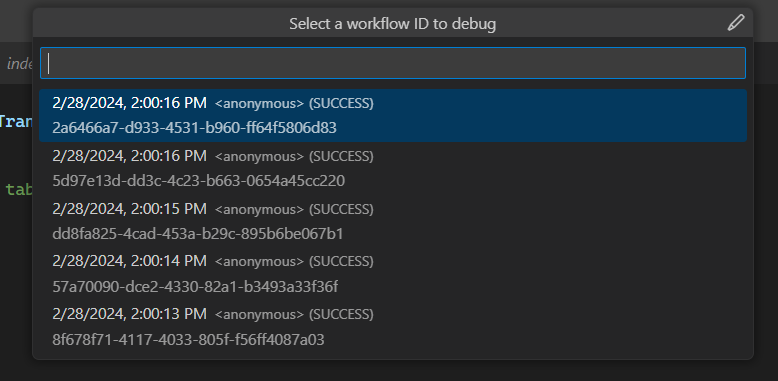
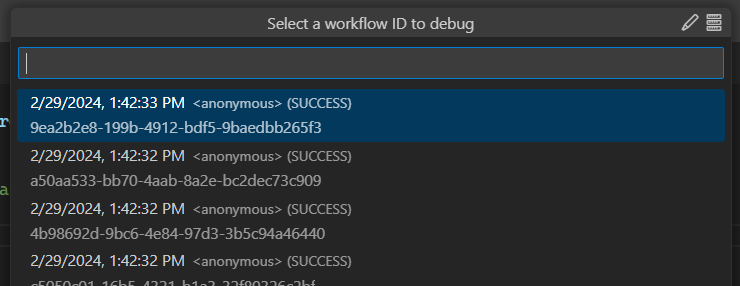
details on launching the debugger via dashboard or specifying WF ID manually (#67)

diff --git a/docs/cloud-tutorials/timetravel-debugging.md b/docs/cloud-tutorials/timetravel-debugging.md
@@ -45,6 +45,12 @@ Time travel debug information is only kept for a few days.
 
 ![DBOS Time Travel Workflow ID picker](./assets/ttdbg-wfid-quick-pick.png)
 
+:::note
+In the upper right hand corner of the workflow picker, there are buttons to manually enter a workflow ID or to 
+select a workflow to debug via your [monitoring Dashboard](./monitoring-dashboard). 
+More details on those options below.
+:::
+
 After selecting a recent execution of your function, the DBOS Time Travel Debugger will launch the DBOS debug runtime 
 and VS Code TypeScript debugger. This allows you to debug your DBOS application against the database as it existed 
 at the time the selected workflow originally executed.
@@ -54,6 +60,23 @@ You can [set breakpoints](https://code.visualstudio.com/docs/editor/debugging#_b
 [step through your code](https://code.visualstudio.com/docs/editor/debugging#_debug-actions) as you would expect.
 
 ![DBOS Time Travel Debugging](./assets/ttdbg-debugging.png)
+
+#### Debugging from the Monitoring Dashboard
+
+You can launch the Time Travel Debugger directly from the [Monitoring Dashboard](./monitoring-dashboard#time-travel-debugging).
+Clicking on the dashboard button in the workflow picker brings you directly to the Monitoring Dashboard. From there, you 
+can use the dashboard's filtering capabilities to find the workflow you want to time travel debug. Once you find the 
+desired workflow execution, click on the value in the workflow uuid column and select "Debug this Workflow" from the menu.
+
+![Debug this workflow menu](./assets/dash-debug-wf.png)
+
+#### Manually entering the Workflow ID to debug
+
+If you already know the workflow ID of the execution you want to debug, press the edit button in the workflow picker
+and you are provided a place to enter that workflow ID directly.
+
+![Debug this workflow menu](./assets/ttdbg-wfid-manual.png)
+
 
 ### Time Travel Database Queries
 

diff --git a/docs/cloud-tutorials/monitoring-dashboard.md b/docs/cloud-tutorials/monitoring-dashboard.md
@@ -45,3 +45,11 @@ When turning on the filtering selectors, the time window selection stays the sam
 
 For much faster filtering, you can set the Trace ID or Workflow UUID simply by clicking on the respective value in the bottom traces table. For Workflow UUID you can also open the selected workflow in the debugger. Click once to see the choices and confirm with another click:
 ![Traces](./assets/traces.png)
+
+### Time Travel Debugging
+
+As per the previous section, clicking on a value in the Workflow UUID column allows you to [filter](#filtering) your view to a single workflow execution or 
+to execute the selected workflow in the Time Travel Debugger. Please see the 
+[Time Travel Debugger Tutorial](./timetravel-debugging#debugging-from-the-monitoring-dashboard) for more information
+
+![Debug this workflow menu](./assets/dash-debug-wf.png)
